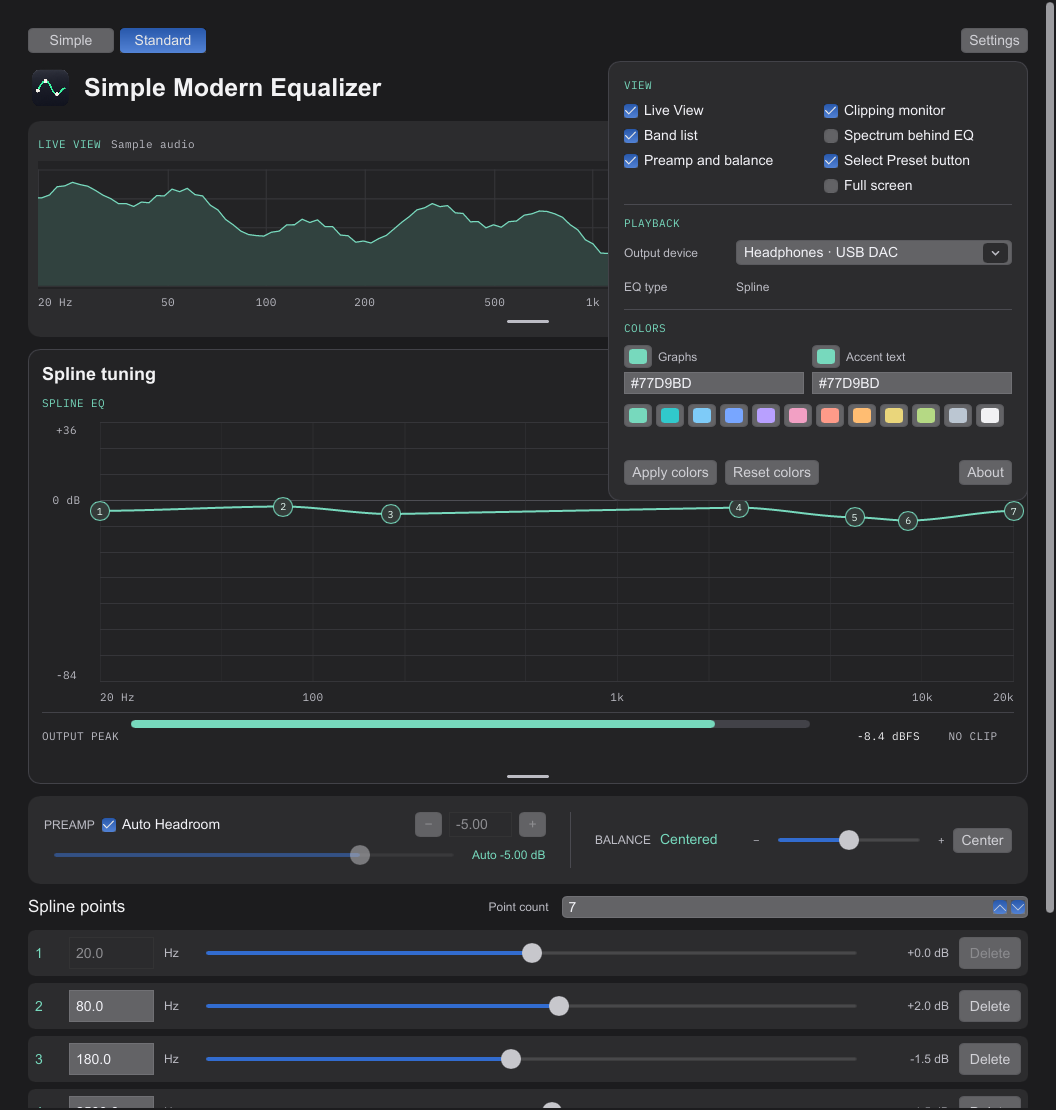
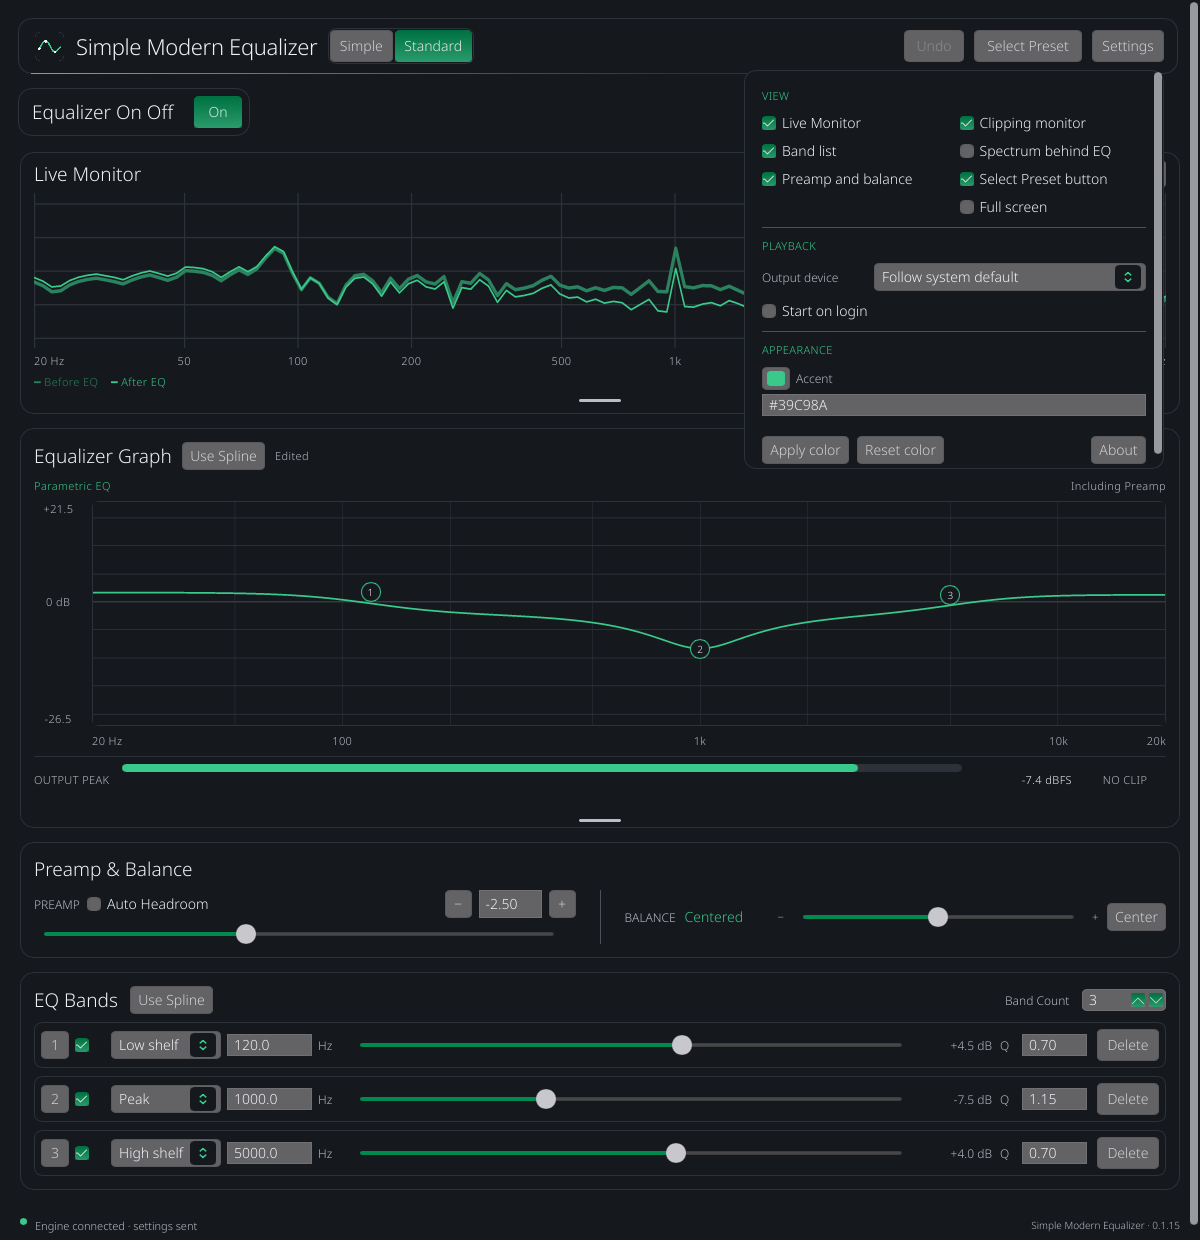
Refresh README and application screenshots

diff --git a/README.md b/README.md
@@ -1,62 +1,51 @@
 # Simple Modern Equalizer
 
-A system-wide equalizer for Linux and Windows with tone controls, editable EQ curves, headphone presets, and live audio meters.
+System-wide EQ for Linux and Windows with tone controls, editable curves, headphone presets, and live audio monitoring.
 
-## Install and start
+| Standard · Before / After EQ | Simple · Oscilloscope |
+| --- | --- |
+| [![Standard mode with three EQ bands and Before / After EQ](docs/screenshots/standard.png)](docs/screenshots/standard.png) | [![Simple mode with Bass, Mid, Treble, and Oscilloscope](docs/screenshots/simple.png)](docs/screenshots/simple.png) |
 
-On Linux, use an x86-64 build and a running PipeWire session. From the repository root, launch the local AppImage:
+## Install
 
-```sh
-chmod +x dist/Simple-Modern-Equalizer-x86_64.AppImage
-./dist/Simple-Modern-Equalizer-x86_64.AppImage
-```
+Download a package from a **Build installers** run in GitHub Actions. Local builds are in `dist/`. [Build workflow](.github/workflows/package.yml)
 
-If you downloaded the AppImage, use its download path. The AppImage built on Fedora 44 requires glibc 2.43 or newer.
-
-On Fedora 44, you can install the RPM instead and launch the app from the menu:
+**Linux.** The x86-64 AppImage needs a running PipeWire session. Launch it from the folder containing the AppImage.
 
 ```sh
-sudo dnf install ./dist/simple-modern-equalizer-*.rpm
-simple-modern-equalizer
+chmod +x Simple-Modern-Equalizer-x86_64.AppImage
+./Simple-Modern-Equalizer-x86_64.AppImage
 ```
 
-On Windows, run the MSI and open **Simple Modern Equalizer** from the Start menu. The development installer registers an unsigned audio component, sets `DisableProtectedAudioDG`, and restarts Windows Audio. It shares a component ID with Resonance and cannot be installed alongside it.
+AppImages built on Fedora 44 require glibc 2.43 or later. On Fedora 44, you can install the RPM with `sudo dnf install ./FILE.rpm` using its filename, then launch `simple-modern-equalizer`.
 
-![Standard mode with a live spectrum and editable EQ curve](docs/screenshots/standard.png)
+**Windows.** Run `SimpleModernEqualizer-Setup-x64.msi` and open the app from Start. Uninstall Resonance first. The development MSI registers an unsigned audio component, sets `DisableProtectedAudioDG`, and restarts Windows Audio.
 
-## Use the equalizer
+## How to use it
 
-- **Simple** has Bass, Mid, Treble, Loudness, and its own saved preamp. Both views use the same **Preamp & Balance** panel and balance setting. Double-click a tone lever to reset it.
-- **Standard** has parametric bands and cubic spline points. Select a point to see its frequency and gain. Drag to edit, hold **Shift** for fine adjustment, or double-click to add a point. A minimum gap keeps spline points selectable. **Use Spline** and **Use Parametric** fit the same reference curve with up to 32 points or bands. Editing the curve sets a new reference.
-- **Undo** restores the last 15 EQ actions. Each drag counts once.
-- **Select Preset** lets you load, save, rename, or overwrite presets and link them to an audio output. **Import Equalizer APO** saves a supported `.txt` file as a custom preset and opens it in Standard.
-- **Settings** controls output, accent color, and panel visibility. **Live Monitor** targets the display’s refresh rate up to 240 Hz and includes Before / After EQ (PipeWire), 30 seconds of output RMS history, and a Stereo Field with phase correlation.
-- **Settings → Start on login** opens the app when you sign in on Linux. If you move the AppImage, toggle the setting off and back on from its new location.
+- **Simple** gives you Bass, Mid, Treble, and Loudness. Double-click a lever to reset it. Both modes share **Preamp & Balance**. Enabling **Auto Headroom** replaces the manual preamp gain with a calculated value.
+- **Standard** lets you drag EQ handles, hold **Shift** for fine adjustment, and double-click to add a handle. Right-click a band or interior spline point to remove it. **Use Spline** and **Use Parametric** fit the same reference curve. **Undo** keeps the last 15 EQ actions.
+- **Select Preset** saves tuning, links presets to an audio output, and imports Equalizer APO `.txt` files. Loading or importing asks before replacing unsaved EQ changes.
+- **Live Monitor** offers six views, including Before / After EQ on PipeWire. Use **Settings** to choose an output or enable **Start on login** on Linux. [Settings screenshot](docs/screenshots/settings.png)
 
-The **Equalizer On Off** box below the toolbar toggles EQ and balance and stays visible while scrolling in Simple. **Auto Headroom** replaces the manual preamp with a calculated gain. Turning it off keeps that gain within the manual range.
+## Developer
 
-The layout adapts down to 480×360 logical pixels. On short windows, **Show Live Monitor** is beside the power box.
+Use the pinned Rust toolchain and install the platform dependencies listed in the build workflow. The app uses a Slint UI and the vendored Resonance audio engine. [Toolchain](rust-toolchain.toml) · [Build workflow](.github/workflows/package.yml) · [UI](ui/main.slint) · [Engine](vendor/resonance)
 
-## Build and test
-
-Use the pinned Rust toolchain, then run `cargo test --locked`. For Linux packaging, install the PipeWire development headers, Clang, and the desktop dependencies listed in the [build workflow](.github/workflows/package.yml).
+```sh
+cargo test --locked -j 2
+sh scripts/build-linux.sh
+./dist/linux/simple-modern-equalizer
+```
 
 | Package | Build command |
 | --- | --- |
 | Linux AppImage | `sh scripts/build-appimage.sh` |
 | Fedora RPM | `sh scripts/build-fedora.sh` |
-| Windows MSI | `./scripts/build-windows.ps1` in PowerShell with MSVC, a Windows SDK, and WiX 4 with its Util extension |
+| Windows MSI | `./scripts/build-windows.ps1` |
 
-The packages go in `dist/`. The GitHub **Build installers** workflow can also build them manually or when a `v*` tag is pushed.
+Windows builds need MSVC, a Windows SDK, and WiX 4 with its Util extension. Enable EQ and pause playback before running the Windows audio check. [Audio check script](scripts/test-windows-audio.ps1)
 
-To test the Windows audio driver, enable the EQ and pause other playback before running:
+To contribute a headphone preset, add your tuning with the model, impedance, and source, then run `cargo test --locked bundled_catalog`. [Preset catalog](presets/catalog.json)
 
-```powershell
-powershell -NoProfile -ExecutionPolicy Bypass -File .\scripts\test-windows-audio.ps1
-```
-
-## Contribute a preset
-
-Save your tuning in Standard. Preset JSON files are in `~/.config/simpledarkeq/presets` or `$XDG_CONFIG_HOME/simpledarkeq/presets` on Linux and `%LOCALAPPDATA%\SimpleDarkEQ\presets` on Windows. Add your preset to [presets/catalog.json](presets/catalog.json) with the headphone model, impedance, and tuning or measurement method. Include source and license details for any third-party data. Validate the catalog with `cargo test --locked bundled_catalog`.
-
-Copyright © 2026 Simple Modern Equalizer contributors. Source is [GPL-3.0-or-later](LICENSE). Builds using Slint’s GPL option are distributed under GPLv3. See [third-party notices](THIRD_PARTY_NOTICES.md).
+Source is GPL-3.0-or-later. Builds using Slint’s GPL option are distributed under GPLv3. [License](LICENSE) · [Third-party notices](THIRD_PARTY_NOTICES.md)
